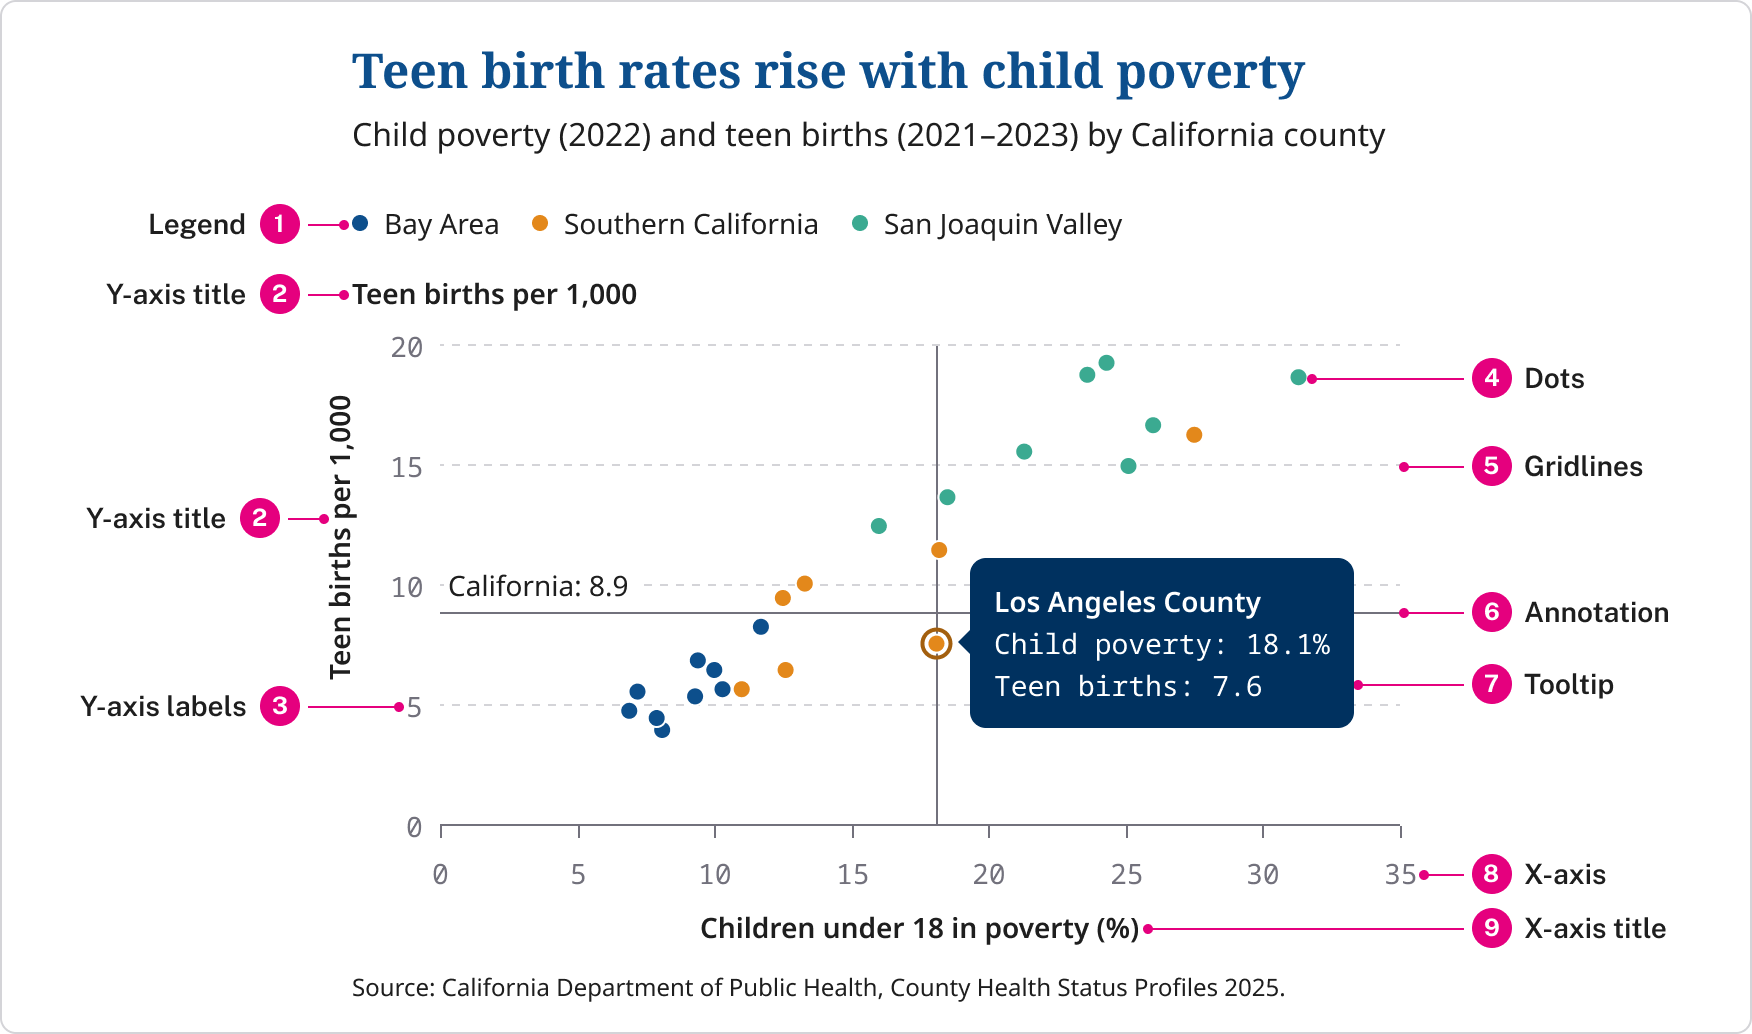
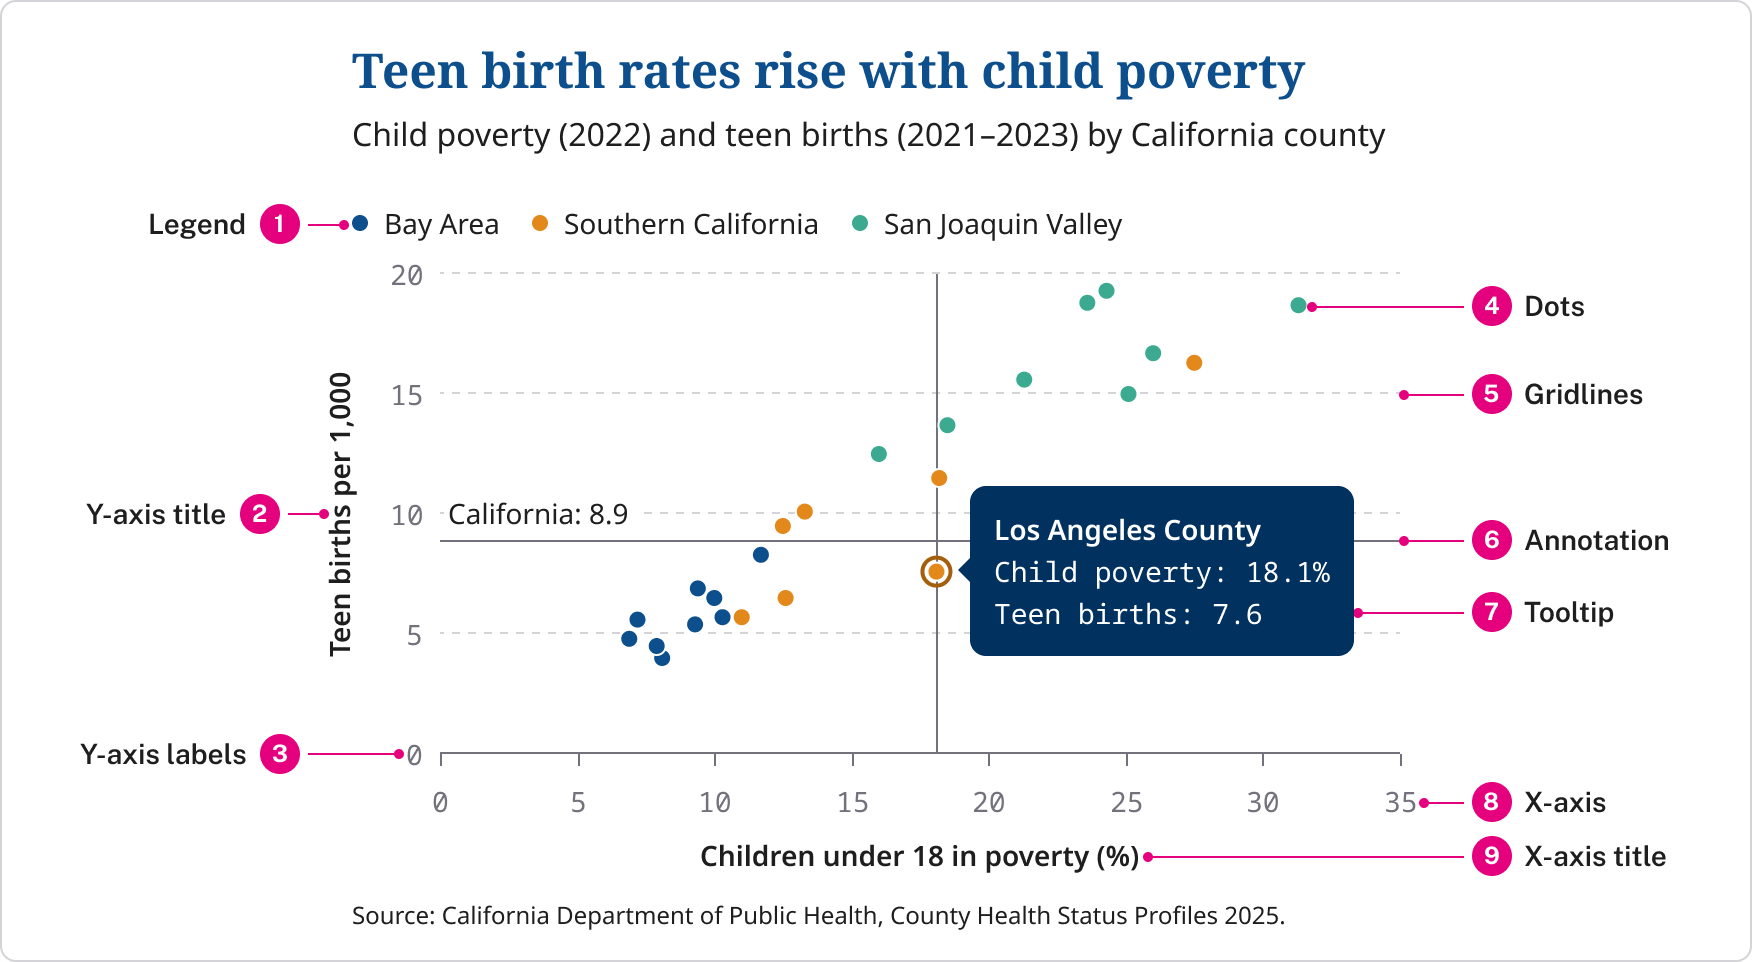
docs(styleguide): y-axis title may be rotated
The y-axis title can sit beside the value axis (reading bottom to top)
or above it; use one consistently on a page. The anatomy scatterplot now
shows only the rotated title. Category and data labels still never rotate.

diff --git a/docs/pages/data/visualization-guidelines/odi-data-visualization-styleguide/chart-anatomy.md b/docs/pages/data/visualization-guidelines/odi-data-visualization-styleguide/chart-anatomy.md
@@ -26,10 +26,10 @@ Every chart should have the same parts. Include each one unless you have a reaso
 
 <h2 class="h3" id="a-chart-with-a-legend-a-tooltip-and-an-annotation">A chart with a legend, a tooltip, and an annotation</h2>
 
-<img src="/img/dataviz/styleguide/chart-anatomy-scatterplot.png" width="876" height="517" style="max-width: 100%; height: auto;" alt="Labeled diagram of a scatterplot titled Teen birth rates rise with child poverty, with the subtitle Child poverty (2022) and teen births (2021–2023) by California county. Dots for 24 counties are colored by region: Bay Area in blue, Southern California in orange, San Joaquin Valley in teal. Bay Area counties sit lowest on both measures and San Joaquin Valley counties highest. Numbered callouts point to its parts: 1 legend, 2 y-axis title (Teen births per 1,000), 3 y-axis labels from 0 to 20, 4 dots, 5 dashed gridlines, 6 an annotation line at the California rate of 8.9, 7 a tooltip on Los Angeles County reading child poverty 18.1% and teen births 7.6, 8 x-axis from 0 to 35, and 9 x-axis title (Children under 18 in poverty, percent). Source: California Department of Public Health, County Health Status Profiles 2025.">
+<img src="/img/dataviz/styleguide/chart-anatomy-scatterplot.png" width="876" height="481" style="max-width: 100%; height: auto;" alt="Labeled diagram of a scatterplot titled Teen birth rates rise with child poverty, with the subtitle Child poverty (2022) and teen births (2021–2023) by California county. Dots for 24 counties are colored by region: Bay Area in blue, Southern California in orange, San Joaquin Valley in teal. Bay Area counties sit lowest on both measures and San Joaquin Valley counties highest. Numbered callouts point to its parts: 1 legend, 2 y-axis title (Teen births per 1,000), rotated beside the axis, 3 y-axis labels from 0 to 20, 4 dots, 5 dashed gridlines, 6 an annotation line at the California rate of 8.9, 7 a tooltip on Los Angeles County reading child poverty 18.1% and teen births 7.6, 8 x-axis from 0 to 35, and 9 x-axis title (Children under 18 in poverty, percent). Source: California Department of Public Health, County Health Status Profiles 2025.">
 
 1. **Legend.** Use one when a chart has several groups and labeling each mark would crowd it, as in a scatterplot, or when bars come in pairs, like this year and last year. Put it above the chart: `24px` below the subtitle and `16px` above the chart. Each item is a swatch in the group’s color (an `8px` dot for dots, a `12px` rounded square for bars, a `16px` line for lines), `8px` from its label, with `16px` between items. `Noto Sans Regular`, `14px`, dark gray {% hex "#1e1e1e" %}.
-1. **Y-axis title.** Names the measure and its unit when both axes are numbers. Put it above the value axis, `8px` above the chart. Never rotate it. `Noto Sans SemiBold`, `14px`, dark gray {% hex "#1e1e1e" %}.
+1. **Y-axis title.** Names the measure and its unit when both axes are numbers. Put it beside the value axis, reading from bottom to top, or above the value axis, `8px` above the chart. Either works: use the same one for every chart on a page or dashboard. `Noto Sans SemiBold`, `14px`, dark gray {% hex "#1e1e1e" %}.
 1. **Y-axis labels.** Numbers along the value axis, `8px` left of the chart. `Noto Sans Mono`, `14px`, gray {% hex "#72717c" %}.
 1. **Dots.** `8px`, in each color’s Main, with a `1px` white outline so overlapping dots stay distinct. The hovered dot keeps its size and gets a `2px` outline in its Line color, with a `2px` gap, and a `1px` gray {% hex "#72717c" %} vertical line runs through it from the top of the chart to the axis.
 1. **Gridlines.** Light gray {% hex "#d4d4d8" %}, `1px`, dashed (`4px` dash, `4px` gap). Here the line at zero is the x-axis line.

diff --git a/docs/pages/data/visualization-guidelines/odi-data-visualization-styleguide/labels-and-callouts.md b/docs/pages/data/visualization-guidelines/odi-data-visualization-styleguide/labels-and-callouts.md
@@ -28,7 +28,7 @@ Data labels show the value of each bar, point, or slice.
 
 - Label lines at their right end, `8px` past the last point, instead of using a legend.
 - Use a legend when labels would crowd the chart, like a scatterplot with many dots, or when bars come in pairs, like this year and last year. Put it above the chart. See [Chart anatomy](/data/visualization-guidelines/odi-data-visualization-styleguide/chart-anatomy/).
-- Never rotate labels. If category labels are long, use horizontal bars or let the label wrap to two lines.
+- Never rotate category labels or data labels. Only the y-axis title may be rotated (see [Chart anatomy](/data/visualization-guidelines/odi-data-visualization-styleguide/chart-anatomy/)). If category labels are long, use horizontal bars or let the label wrap to two lines.
 - Keep labels dark gray. Don’t color them to match their line or bar.
 
 ## Annotations
